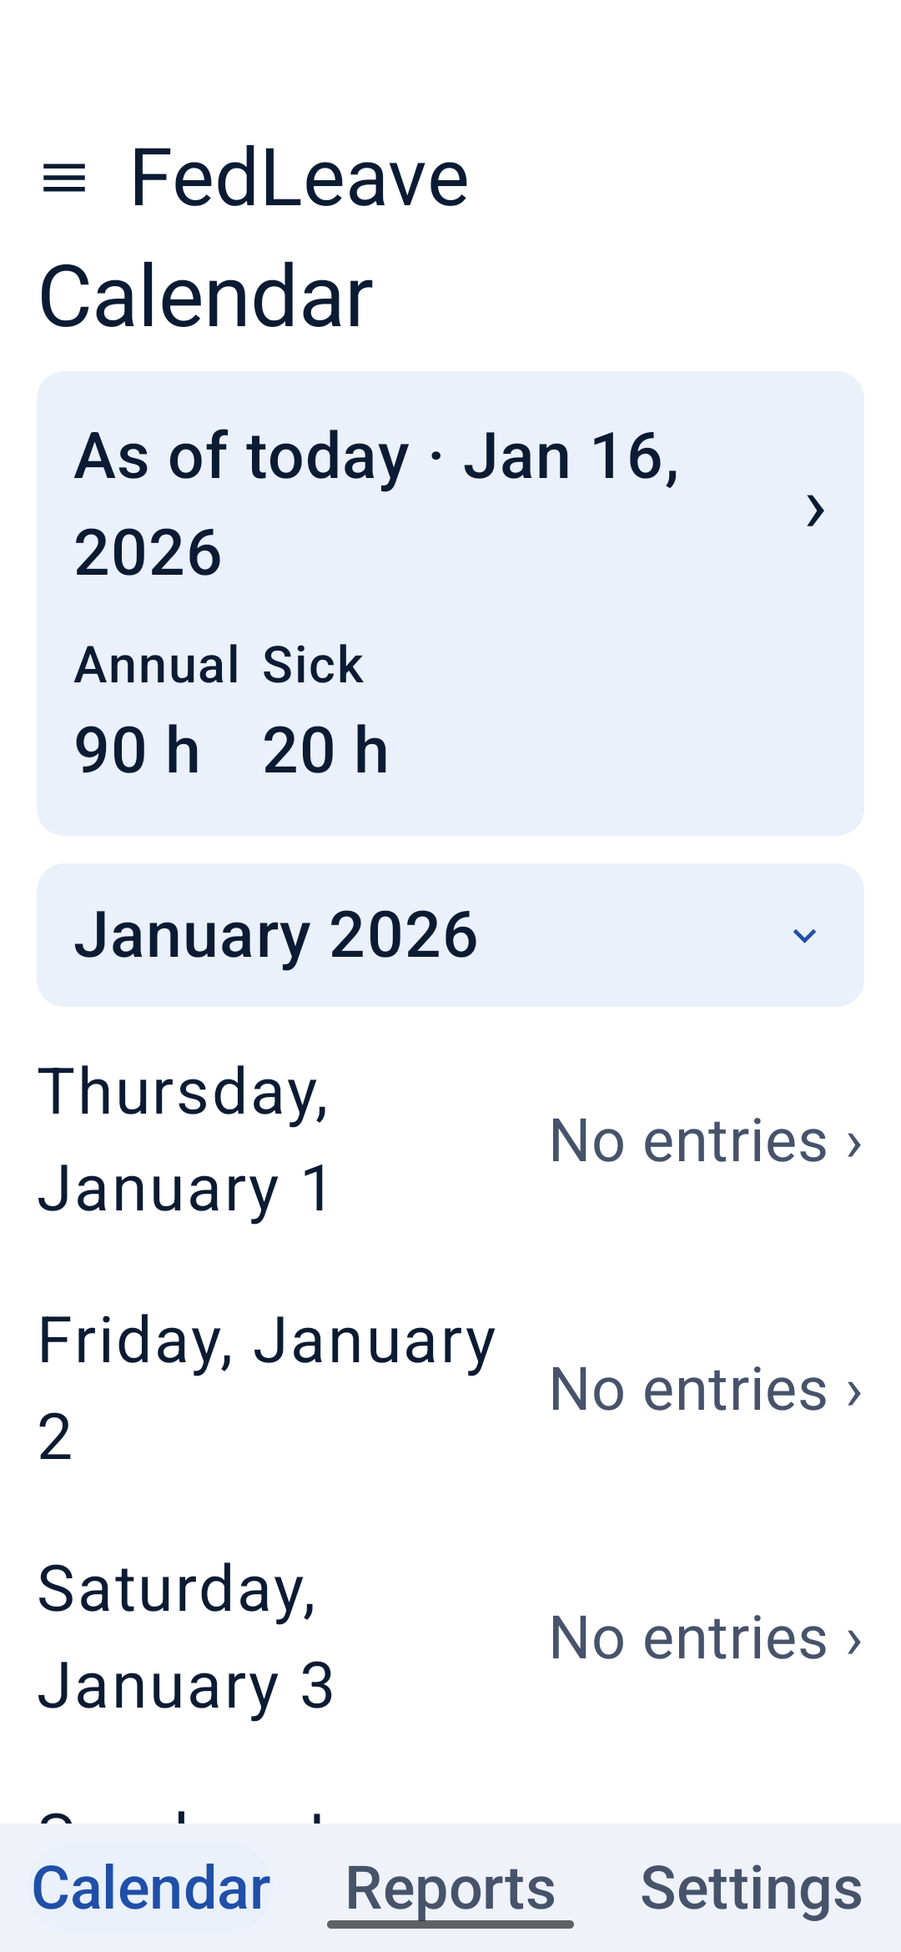
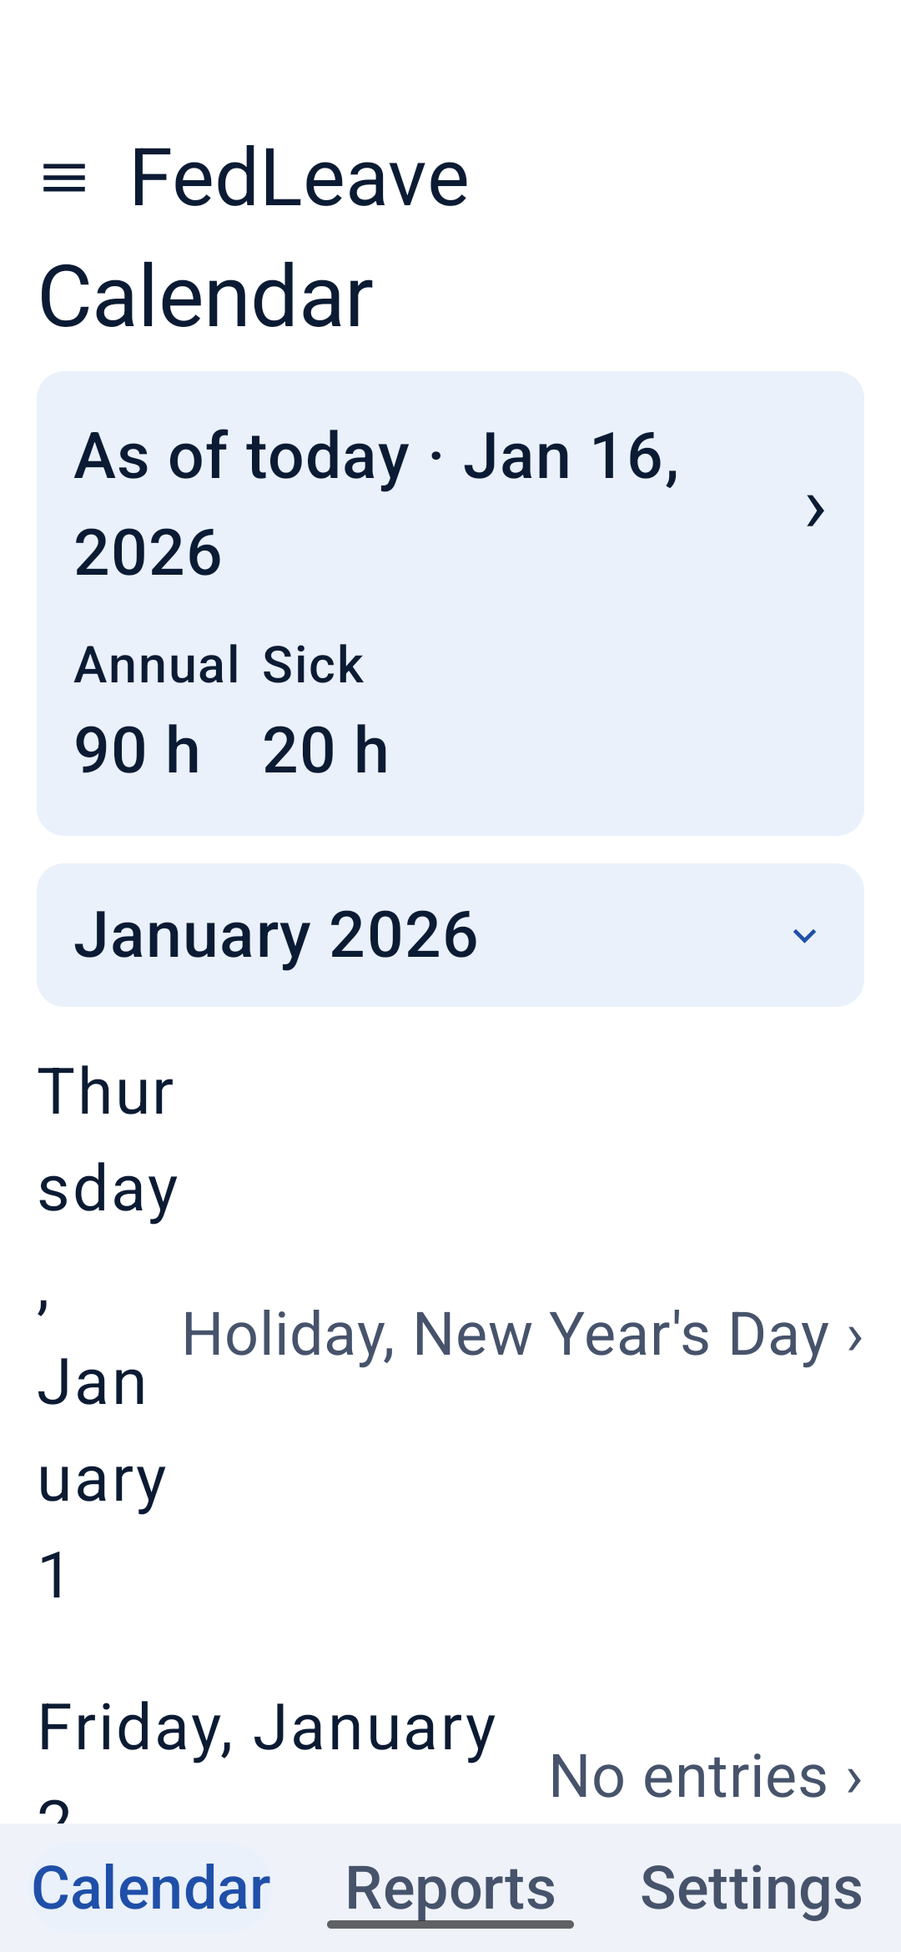
I05-02 review fixes: visible day-list event labels, keyed loading, tapped-day focus, scroll restore, nav pin record

diff --git a/android/app/src/main/java/com/westmouthbay/fedleave/calendar/CalendarScreen.kt b/android/app/src/main/java/com/westmouthbay/fedleave/calendar/CalendarScreen.kt
@@ -18,6 +18,7 @@ import androidx.compose.foundation.layout.size
 import androidx.compose.foundation.layout.width
 import androidx.compose.foundation.lazy.LazyColumn
 import androidx.compose.foundation.lazy.items
+import androidx.compose.foundation.lazy.rememberLazyListState
 import androidx.compose.foundation.rememberScrollState
 import androidx.compose.foundation.shape.CircleShape
 import androidx.compose.foundation.shape.RoundedCornerShape
@@ -34,10 +35,13 @@ import androidx.compose.material3.MaterialTheme
 import androidx.compose.material3.Surface
 import androidx.compose.material3.Text
 import androidx.compose.runtime.Composable
+import androidx.compose.runtime.DisposableEffect
 import androidx.compose.runtime.collectAsState
 import androidx.compose.runtime.getValue
+import androidx.compose.runtime.mutableIntStateOf
 import androidx.compose.runtime.mutableStateOf
 import androidx.compose.runtime.remember
+import androidx.compose.runtime.saveable.rememberSaveable
 import androidx.compose.runtime.setValue
 import androidx.compose.ui.Alignment
 import androidx.compose.ui.Modifier
@@ -142,7 +146,7 @@ fun CalendarScreen(
                 .fillMaxWidth(),
         ) {
             when {
-                state.monthLoading && month == null -> {
+                state.monthLoading && (state.monthFor != state.displayMonth || month == null) -> {
                     Box(
                         modifier = Modifier.fillMaxSize(),
                         contentAlignment = Alignment.Center,
@@ -202,7 +206,8 @@ private fun BalanceCard(state: CalendarUiState) {
             }
             Spacer(Modifier.height(12.dp))
             when {
-                state.balanceLoading && state.balance == null -> {
+                state.balanceLoading &&
+                    (state.balanceFor != state.balanceDate || state.balance == null) -> {
                     Box(
                         modifier = Modifier
                             .fillMaxWidth()
@@ -367,10 +372,17 @@ private fun MonthGrid(
     context: android.content.Context,
     onOpenDay: (LocalDate) -> Unit,
 ) {
+    // The grid restores its scroll position when the screen returns from the
+    // day route or the month picker.
+    var savedScroll by rememberSaveable { mutableIntStateOf(0) }
+    val gridScrollState = rememberScrollState(initial = savedScroll)
+    DisposableEffect(Unit) {
+        onDispose { savedScroll = gridScrollState.value }
+    }
     Column(
         modifier = Modifier
             .fillMaxSize()
-            .verticalScroll(rememberScrollState())
+            .verticalScroll(gridScrollState)
             .padding(horizontal = 12.dp),
     ) {
         WeekdayHeader(settings.weekStart)
@@ -593,7 +605,22 @@ private fun DayList(
     onOpenDay: (LocalDate) -> Unit,
 ) {
     val days = month.days.filter { it.inDisplayMonth }
+    // The day list restores its position when the screen returns from the
+    // day route.
+    var savedIndex by rememberSaveable { mutableIntStateOf(0) }
+    var savedOffset by rememberSaveable { mutableIntStateOf(0) }
+    val listState = rememberLazyListState(
+        initialFirstVisibleItemIndex = savedIndex,
+        initialFirstVisibleItemScrollOffset = savedOffset,
+    )
+    DisposableEffect(Unit) {
+        onDispose {
+            savedIndex = listState.firstVisibleItemIndex
+            savedOffset = listState.firstVisibleItemScrollOffset
+        }
+    }
     LazyColumn(
+        state = listState,
         modifier = Modifier
             .fillMaxSize()
             .testTag("calendar_day_list"),
@@ -620,13 +647,22 @@ private fun DayList(
                 }
             }.joinToString(". ")
 
-            val body = when {
-                day.entries.isEmpty() ->
-                    context.getString(R.string.day_no_entries) + " \u203A"
-                else -> day.entries.joinToString(" \u00b7 ") { entry ->
-                    BalancePresentation.fullLabel(context, entry.category) + " \u00b7 " +
-                        BalancePresentation.entryValueText(context, entry)
-                } + " \u203A"
+            val bodyParts = buildList {
+                // Each row spells out its schedule events and day activity,
+                // as the CALENDAR-DAY-LIST board requires.
+                markers.forEach { add(it.spoken) }
+                day.entries.forEach { entry ->
+                    val direction = entry.direction ?: ""
+                    add(
+                        "${BalancePresentation.shortLabel(context, entry.category)} " +
+                            "${BalancePresentation.formatHours(entry.hours)} h $direction",
+                    )
+                }
+            }
+            val body = if (bodyParts.isEmpty()) {
+                context.getString(R.string.day_no_entries) + " \u203A"
+            } else {
+                bodyParts.joinToString(". ") + " \u203A"
             }
             Row(
                 modifier = Modifier

diff --git a/android/app/src/androidTest/java/com/westmouthbay/fedleave/calendar/CalendarScreenTest.kt b/android/app/src/androidTest/java/com/westmouthbay/fedleave/calendar/CalendarScreenTest.kt
@@ -172,7 +172,16 @@ class CalendarScreenTest : CalendarUiTestBase() {
         }
         waitForBalanceCard()
         composeRule.onNodeWithText("Thursday, January 1").assertIsDisplayed()
+        // Each row spells out its schedule events: January 1 carries the
+        // holiday, January 21 has no entries.
+        composeRule.onNodeWithText("Holiday, New Year's Day \u203A").assertIsDisplayed()
         composeRule.onAllNodesWithText("No entries \u203A").onFirst().assertIsDisplayed()
+        composeRule
+            .onNodeWithTag("calendar_day_list")
+            .performScrollToNode(hasTestTag("calendar_day_2026-01-24"))
+        composeRule
+            .onNodeWithText("Pay-period end, Period 1", substring = true)
+            .assertIsDisplayed()
         composeRule
             .onNodeWithTag("calendar_day_list")
             .performScrollToNode(hasTestTag("calendar_day_2026-01-22"))

diff --git a/android/app/src/main/java/com/westmouthbay/fedleave/ui/FedLeaveApp.kt b/android/app/src/main/java/com/westmouthbay/fedleave/ui/FedLeaveApp.kt
@@ -62,12 +62,9 @@ fun FedLeaveApp(dependencies: AppDependencies) {
         calendarViewModel.onLaunch()
     }
 
-    // Returning to Calendar closes the read-only day route state.
-    LaunchedEffect(currentRoute) {
-        if (currentRoute == AppRoutes.CALENDAR) {
-            calendarViewModel.onCloseDay()
-        }
-    }
+    // The tapped day stays selected after Back so the Calendar restores its
+    // month, scroll context and focus on the tapped date; Menu > Today and
+    // the next day tap replace it.
 
     Scaffold(
         bottomBar = { FedLeaveBottomBar(currentRoute, navController::navigateToTab) },

diff --git a/android/reviews/code/I05-02.md b/android/reviews/code/I05-02.md
@@ -1,0 +1,41 @@
+# AI code review for milestone I05-02
+
+| Item | Evidence |
+| --- | --- |
+| Review status | Fail — one required finding (F1); all other findings are non-blocking notes |
+| Candidate commit and parent or base | `dbe9508` (parent `b501af2`); range `b501af2..dbe9508` plus follow-up `e671624`, which only removes the temporary `SemanticsDumpTest` diagnostic |
+| Governing spec revision and acceptance IDs | Chapters [01-01](../../specification/chapters/01-calendar/01-01-main-screen.md), [01-02](../../specification/chapters/01-calendar/01-02-balances.md), [01-03](../../specification/chapters/01-calendar/01-03-navigation-and-screens.md), [01-04](../../specification/chapters/01-calendar/01-04-date-markers.md), [01-05](../../specification/chapters/01-calendar/01-05-menu-and-pdf.md), [01-07](../../specification/chapters/01-calendar/01-07-menu-structure.md); acceptance `T-CAL-BAL-01/05` (launch + Today at screen level), `T-CAL-NAV-01`, `T-CAL-MARK-01`, `T-CAL-MENU-01` |
+| Implementation brief and scope | [I05 calendar brief](../../implementation/briefs/I05-calendar.md), I05-02 task row ("Calendar, navigation, and markers") with P-D3, P-D4, P-D6 and the visual-loop verification rule |
+| Mockups, actual captures, and QA report | Eight captures under `qa/evidence/I05-02/`; vision-agent verdicts accepted as recorded evidence (see below). The QA report `qa/reports/I05-02.md` was not yet committed at review time; its required records are noted in F4 and the closeout notes |
+| Model and review date | deepseek-v4-pro session, November 24, 2026 |
+| Commands and checks actually observed | `./gradlew :app:testDebugUnitTest --rerun-tasks` from `android/` with `JAVA_HOME=/usr/lib/jvm/java-21-openjdk-amd64` and the repo `.venv/bin` on `PATH`: **35/35** (StoreCoordinatorTest 13, CoreModelsTest 7, CalendarViewModelTest 14, ExampleUnitTest 1). Read-only re-hash of both fixture trees against their manifests (see notes). Connected suite, `assembleDebug` and `lintDebug` were not re-run by this reviewer (emulator reserved for QA; not touched) and remain in the implementer's QA record |
+| QA evidence identity and operator-attested verdict, when delegated | Visual loop (three iterations, vision agent) accepted as recorded evidence: calendar-main PASS, calendar-menu PASS, calendar-month-picker PASS, calendar-markers-jan-2027 PASS, calendar-markers-day-2027-01-09 PASS, dark + large-text PASS, calendar-day-2026-01-16 PASS with a recorded owner question on the heading wording ("Leave activity" vs the compact-day board's "Entries"; the implementation follows the calendar-markers day-route board) |
+
+## Findings
+
+| Finding ID and severity | File and line | Requirement, test or gate | Expected, observed, and reproduction or evidence | Fix or approved spec revision | Retest and status |
+| --- | --- | --- | --- | --- | --- |
+| F1 · Required (Medium) | `calendar/CalendarScreen.kt:623-630` (`DayList` visible `body`) | Chapter 01-01 full-width list rule ("Each row spells out schedule events and day activity"); 01-04 ("In that list give each applicable event its text label"); `CALENDAR-DAY-LIST` mockup board item 5 (`calendar-compact.json`) | Expected: the visible row body names each applicable schedule event plus the day activity, e.g. the mockup's Jan 24 body "Pay-period end, period 1. Annual 6 h earned. Sick 4 h earned. Comp 1 h earned." Observed: the visible body joins only `day.entries` (or "No entries ›"); holiday, Payday, Pay-period end and Leave-year end appear only inside the merged TalkBack contentDescription, never as visible text. The accepted large-text capture shows rows Jan 21–23, which match the mockup; the event-bearing Jan 24 row is below the fold, so the delegated visual verdict does not cover this deviation. The narrow-width device test codifies the deviant behavior ("No entries ›" for holiday Jan 1) | Prepend each applicable event label to the visible row body and extend the narrow-width device test to assert it (e.g. Jan 24 and Jan 1 rows). Note: the mockup disagrees with itself on entry-label form (item 3 body "Annual leave · 4 h used" full label vs item 5 "Annual 6 h earned" short label) — confirm the form with the planner; the event-label presence itself is unambiguous | Rerun `:app:testDebugUnitTest`, the affected connected tests, and recapture the large-text state with an event-bearing row visible; not yet fixed |
+| F2 · Low | `calendar/CalendarScreen.kt:138-166` (month area), `:204-239` (balance card) | I05-01 review note (d): I05-02 should render loading off the key mismatch | Expected: while a browsed month or a new balance date loads, show loading instead of the previous result. Observed: the spinner renders only when `month == null` / `balance == null`; otherwise the previous month's grid (or the previous date's amounts) stays visible under the new month header / new date header until the read lands. Reproduced by reading the state conditions: browsing to February updates `displayMonth` immediately while `month` still holds January. Transient (~74 ms warm bridge reads) but visible in the device suite's February browse | Gate rendering on `monthFor == displayMonth` (and `balanceFor == balanceDate`) before showing the result | Non-blocking for I05-02; retest with the combined suite when addressed |
+| F3 · Low | `ui/FedLeaveApp.kt:66-70` + `calendar/CalendarViewModel.kt:144-146` | Brief Day-route section: "Back returns to the same Calendar month with its existing balance cutoff and focus on the tapped date"; trigger table: "Back restores month, scroll context and focus" | Expected: the tapped date keeps its focus/highlight after Back from the day route. Observed: the route-return effect calls `onCloseDay()`, which clears `selectedDay` whenever the Calendar route becomes active, dropping the highlight. Month, balance cutoff and scroll position are restored correctly (navigation-compose saveable state). `T-CAL-NAV-01` gates only cutoff preservation, so no acceptance case fails | Confirm intent with the planner (I05-01's `onCloseDay` was designed to clear route state); restore the tapped-date focus in I08 (which owns Edit-day controls) or an explicit follow-up | Non-blocking for I05-02 |
+| F4 · Low | `gradle/libs.versions.toml:8` | Brief P-D4: "Verify the pin resolves at first sync and record the final version in the I05-02 QA report" | Expected: the navigation-compose pin substitution (brief 2.10.2 → shipped 2.9.8, because 2.10.2 transitively required AGP 9.1/compileSdk 37) recorded with its rationale. Observed: the catalog consistently pins `navigationCompose = "2.9.8"`, the build resolves it, and `lifecycle-viewmodel-compose` correctly reuses the pinned 2.8.7 — but no committed artifact records the substitution, and the QA report (the required record location) is not yet committed. The brief and I05-01 passdown still name 2.10.2 | Record the substitution and rationale in `qa/reports/I05-02.md` when QA lands | Non-blocking; required record at QA |
+| F5 · Info | `calendar/CalendarScreen.kt:153`, `:301-308` (`MonthUnavailable`) | Brief state table: a read failure "shows matching feedback and retains date controls" | Observed: a failed month read shows plain "Unavailable" text; the month selector above stays reachable, but the ViewModel's `onRetryMonth()` is never wired to a control. The brief specifies Retry/Choose-date controls only for the balance-unavailable state (I05-03), so this is not an I05-02 gate | Consider wiring `onRetryMonth` at I05-03 or I05 closeout | Non-blocking |
+| F6 · Info | `CalendarScreenTest.kt:126`; `ui/FedLeaveApp.kt:174-201`; test files | Test quality and accessibility notes | (a) Menu outside-tap dismissal uses hardcoded screen coordinates (540, 907), valid only on the pinned AVD — acceptable and commented, but fragile; (b) no device test asserts the day-list visible event text (see F1); (c) no test asserts tapped-date focus after Back (see F3); (d) the fontScale ≥ 1.3 threshold boundary is not directly exercised (the capture uses 2f and the width test uses 300 dp) — acceptable, since the threshold is inline in the composable; (e) bottom tabs expose no selected state to TalkBack (no `selected` semantics/role on `BottomTab`) — minor accessibility nit | Add the F1 assertion; optional semantics for tab selection | Non-blocking |
+
+## Notes
+
[1 lines of base64/hex data omitted]
+- **Navigation correctness.** Activity-scoped `CalendarViewModel` via `viewModel(viewModelStoreOwner = activity, factory = CalendarViewModel.factory(dependencies))`; the `onLaunch` guard (`today != null`) prevents a duplicate store open on recomposition/rotation. The day route carries the ISO date as a string argument and parses it back; Back pops the entry and the `LaunchedEffect(currentRoute)` fires `onCloseDay()` on return. Bottom tabs follow the mockups: single-selected pill (primaryContainer, 20 dp radius), transparent unselected, Reports/Settings placeholder destinations per the owner decision (P-D4).
+- **Trigger-table conformance.** Launch reads the month and balance for the injected today; month selection updates only `displayMonth` (cutoff preserved — asserted); opening a day updates only `selectedDay`; Menu > Today closes the dropdown first, then resets month/cutoff and bumps all request identities; no balance route or picker ships yet (the card chevron is deliberately inert until I05-03, commented in code).
+- **Markers.** Four 9 dp Canvas glyphs (star, coin, flag, checked calendar) in chapter table order, immediately right of the day number, 2 dp apart, two per row with a second row for overflow (star+coin above flag+check per 01-04), tinted by highlight state. Spoken order is date → events in table order → activity, asserted with exact fixture words for Jan 1/19/24/30 2026 and the Jan 9 2027 four-event collision. The leave-year-end label uses the covering leave year (2026), not the calendar year. Display flags filter markers; the hidden-holiday test proves remaining events and labels are unaffected.
+- **Grid/list fallback.** Width < 7×48 dp (336 dp) or fontScale ≥ 1.3 switches to the full-width day list; the grid renders leading blanks (`(dow − weekStart + 7) % 7`) and trailing padding per the mockups. Rows are 48 dp targets.
+- **Accessibility.** Grid cells and day rows use `mergeDescendants = true` with full `contentDescription`s (date, events, activity); menu rows are 48 dp M3 defaults; the back arrow is labeled "Back to Calendar"; the menu icon is labeled "Menu".
+- **Test quality and isolation.** `CalendarUiTestBase` deletes the app-private store and re-imports the pinned fixture before every test, and `PrivateStoreTest` gained the same reset, so suites are order-independent. The collision fixture and frozen clock drive the screen-level MARK/MENU/NAV/BAL-launch assertions. The capture suite covers all eight states with UiAutomation screenshots, ANR-dialog dismissal, and `leaveApksInstalledAfterRun` for pulling evidence — all justified and documented.
+- **Follow-up `e671624`** deletes only the temporary `SemanticsDumpTest` diagnostic; no production change.
+- **Closeout obligations** (not I05-02 blockers, recorded for the handoff): `android/README.md` (status line, new `calendar/`/`core/`/`ui/` packages, new dependencies, the builder now emitting the marker fixture with its own digest) and the root `passdown.md` are due at I05 closeout per the brief; the QA report must log the visual loop iterations, the P-D4 version substitution (F4), and the manual TalkBack/Back confirmations for the menu, picker, day route and full-width fallback.
+
+## Coverage of the final candidate
+
+Inspected the full `b501af2..dbe9508` diff plus `e671624`: `FedLeaveApp.kt`, `AppRoutes.kt`, `MainActivity.kt`, `CalendarScreen.kt`, `CalendarDateMarkers.kt`, `MonthPicker.kt`, `DayScreen.kt`, `BalancePresentation.kt`, `Theme.kt`, `strings.xml`, the `CalendarViewModel.kt` additions (factory, `availableYears`, `leaveYearNumberFor`, `onLaunch` guard), debug `CalendarDeveloperConfig.kt`, the gradle catalog/properties/build changes, the fixture-builder extension, both manifests and the generated marker fixture, and all five test files. Read-only re-verification of both fixture digests and marker-fixture semantics passed; the JVM unit suite was re-run and observed 35/35. Connected, assemble and lint results remain delegated to the implementer's QA record.
+
+Final reviewed revision: `e671624` (candidate `dbe9508`). Decision: **Fail** — required finding F1 (full-width day-list rows must show the schedule-event labels as visible text, with a matching test assertion); F2–F4 are non-blocking recommendations and F5/F6 are notes.

diff --git a/android/implementation/briefs/I05-calendar.md b/android/implementation/briefs/I05-calendar.md
@@ -27,7 +27,7 @@ I05 closes after all three subsets and the combined applicable Calendar gates pa
 - **P-D1 · Typed bridge adapter is created inside I05-01.** The I03 adapter today is Python-only (`fedleave_probe.call`), and the I04 store hands raw JSON text. I05-01 creates `CoreBridge` (see below). No change to `src/fedleave/read_api.py`, `bridge/src/fedleave_probe.py`, or the desktop CLI.
 - **P-D2 · Leave-year metadata comes from the snapshot, not a new facade op.** The UI needs `leave_year_start`/`leave_year_end` for the year-end marker and day events. The month-view result does not expose them. The ViewModel parses those two fields from the snapshot file `leave_years/<year>.json` (JSON text already held by `StorageSnapshot.files`) with `org.json`, matching the storage package. Rejected alternative (kept visible for the planner): adding a `year_info` operation to the shared facade, which would reopen the closed I03 surface.
 - **P-D3 · Payday overlap fixture uses stored pay dates, not a runtime offset.** The facade derives `is_payday` from the stored `pay_date` (`pay_period_pay_date` prefers the explicit field). The marker fixture therefore rewrites each stored `pay_date` to its period end (offset 0). The user-facing payday-offset display preference stays an I18 concern. No core change.
-- **P-D4 · Navigation stack is created in I05-02 with Navigation Compose.** Add `androidx.navigation:navigation-compose:2.10.2` (latest stable on Google Maven at briefing time) and `androidx.lifecycle:lifecycle-viewmodel-compose:2.8.7` (matches the pinned lifecycle 2.8.7) to the version catalog. Verify the pin resolves at first sync and record the final version in the I05-02 QA report. The bottom bar follows the mockups exactly: **Calendar · Reports · Settings** all render in I05, with Calendar active. Reports and Settings are working navigation destinations with minimal placeholder content until their real screens land (Reports I13, Settings I18); record the placeholder content as the interim gap. Owner decision, November 24, 2026: follow the existing mockups; do not hide the other tabs.
+- **P-D4 · Navigation stack is created in I05-02 with Navigation Compose.** Add `androidx.navigation:navigation-compose` (briefed pin 2.10.2) and `androidx.lifecycle:lifecycle-viewmodel-compose:2.8.7` (matches the pinned lifecycle 2.8.7) to the version catalog. **Substitution recorded:** navigation-compose 2.10.2 transitively requires lifecycle 2.11.0, which demands AGP 9.1.0 and compileSdk 37 — outside the pinned I01 toolchain — so I05-02 landed on **2.9.8** (latest 2.9.x stable, same family as the I01-era toolchain), verified by a clean sync and the full suite. Record the final version in the I05-02 QA report. The bottom bar follows the mockups exactly: **Calendar · Reports · Settings** all render in I05, with Calendar active. Reports and Settings are working navigation destinations with minimal placeholder content until their real screens land (Reports I13, Settings I18); record the placeholder content as the interim gap. Owner decision, November 24, 2026: follow the existing mockups; do not hide the other tabs.
 - **P-D5 · Clock and settings injection.** `TimeSource` (interface, device local date) with a debug-only fixed `2026-01-16` `America/New_York` override; `CalendarDisplaySettings` data class with defaults `showHolidays=true, showPaydays=true, showPayPeriodEnds=true, showAccruals=true, weekStart=SUNDAY`. Both live in `AppDependencies`, which `MainActivity` constructs. I18 replaces the defaults with persisted preferences.
[1 lines of base64/hex data omitted]
 
